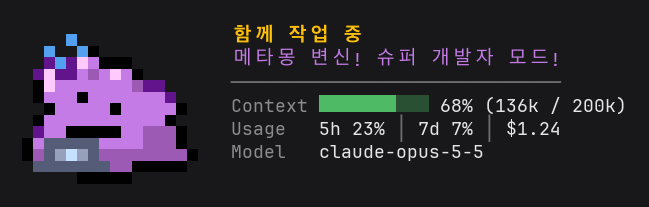
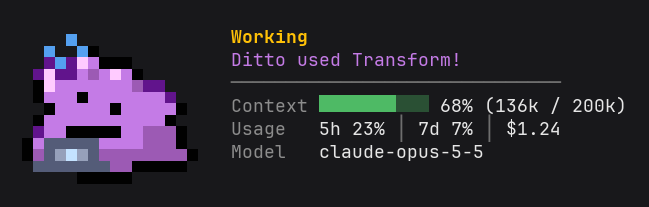
docs: README.md

Changed region(s): [[0.339, 0.1159, 0.8629, 0.3188]]

diff --git a/README.ko.md b/README.ko.md
@@ -4,23 +4,24 @@
 
 메타몽이 프롬프트 위에서 작업 상태를 표정으로 알려 주는 Claude Code Mods입니다. 터미널(CLI)과 Claude Desktop의 Code 탭에서 모두 동작합니다.
 
-![터미널에서 본 메타몽 띠](docs/images/screenshot.png)
+![터미널에서 본 메타몽](docs/images/screenshot.ko.png)
 
 ## 설치
 
-터미널에서 Claude Code를 실행한 뒤 프롬프트에 입력합니다.
+**Claude Code**
 
 ```text
 /plugin install ditto --marketplace 4anghyeon/claude-with-ditto
 ```
 
-셸에서 바로 설치할 수도 있습니다.
+**Shell**
 
 ```sh
 claude plugin install ditto --marketplace 4anghyeon/claude-with-ditto
 ```
 
-Desktop 앱에서는 `/plugin`이 동작하지 않습니다. 프롬프트 입력창 옆의 + 버튼을 누르고 Plugins에서 Add marketplace로 `4anghyeon/claude-with-ditto`를 추가한 뒤 Add plugin을 누르세요.
+**Desktop App**
+- 입력창 옆 + 버튼 → Plugins → Add marketplace에 `4anghyeon/claude-with-ditto` 추가 → Add plugin
 
 ## 업데이트
 
@@ -35,18 +36,17 @@ claude plugin update ditto@claude-with-ditto
 
 ## 제거
 
-셸에서 모드를 지웁니다.
+**Mods**
 
 ```sh
 claude plugin uninstall ditto@claude-with-ditto
 ```
 
-마켓플레이스 등록까지 지우려면 이어서 실행합니다.
+**Marketplace**
 
 ```sh
 claude plugin marketplace remove claude-with-ditto
 ```
-
 
 ## 기능
 
@@ -55,19 +55,18 @@ claude plugin marketplace remove claude-with-ditto
 
   | 상태 | 모습 | 언제 | 움직임 |
   |---|---|---|---|
-  | 대기 중 | ![대기 중](docs/images/idle.gif) | 세션을 시작했을 때, 작업 완료 10초 뒤 | 눈을 깜박이다 가끔 두리번거리거나 하품하고, 1분이 지나면 잠듦 |
+  | 대기 중 | ![대기 중](docs/images/idle.gif) | 세션을 시작했을 때, 작업 완료 10초 뒤 | 눈을 깜박이다 가끔 두리번거리거나 하품하고, 1분이 지나면 돌로 변해 잠듦 |
   | 생각 중 | ![생각 중](docs/images/thinking.gif) | 프롬프트를 보냈을 때, 파일 읽기, 테스트 실행 | 통통 튀고 물음표가 뜸 |
   | 함께 작업 중 | ![함께 작업 중](docs/images/working.gif) | 파일 수정, 그 밖의 명령 실행 | 노트북 앞에서 타이핑 |
   | 오류 발견 | ![오류 발견](docs/images/error.gif) | 답변에 오류나 실패가 있을 때 | 물방울이 맺힘 |
   | 작업 완료 | ![작업 완료](docs/images/done.gif) | Claude가 답을 마쳤을 때 | 별이 반짝임 |
 
-- 메타몽 옆에는 지금 상태와 한마디가 뜹니다. 한마디는 상태별 10개 중에서 무작위로 나오고 5초마다 바뀝니다.
+- 메타몽 옆에는 지금 상태와 한마디가 뜹니다.
 - 컨텍스트 사용량을 막대와 퍼센트로 보여 줍니다.
 - 사용량 한도와 세션 비용을 보여 줍니다.
 - 지금 쓰는 모델을 보여 줍니다.
 - `/ditto <질문>`으로 메타몽에게 물어볼 수 있습니다. 질문은 지금 세션으로 바로 가고, Claude가 대화 맥락을 그대로 이어서 메타몽 말투로 답합니다.
 - `/ditto mood <idle|thinking|working|error|done>`로 표정을 직접 바꿔 보고, `/ditto demo`로 다섯 표정과 도구별 소품 네 가지를 차례로 봅니다.
-- 한국어와 영어로 말합니다. 영어에서는 포켓몬 게임 대사처럼 "Ditto used Transform!" 같은 말을 합니다.
 
 ## 움직임
 
@@ -75,7 +74,11 @@ claude plugin marketplace remove claude-with-ditto
 
 ![대기 중에서 생각 중으로 바뀌는 모습](docs/images/transition.gif)
 
-대기 중에는 가끔 짧은 동작을 하고, 오래 두면 잠듭니다.
+대기 중에는 가끔 짧은 동작을 하고, 오래 두면 돌로 변신해 잠듭니다.
+
+> 어떤 것이든 변신할 수 있다. 잘 때는 돌로 변신해서 공격받지 않도록 하고 있다.
+>
+> — 포켓몬 도감 (골드/하트골드)
 
 | 두리번 | 흔들기 | 늘리기 | 하품 | 잠들기 |
 |---|---|---|---|---|
@@ -95,14 +98,12 @@ claude plugin marketplace remove claude-with-ditto
 
 ## 알아 둘 점
 
-메타몽의 픽셀은 `hooks/sprites.mjs`에 들어 있고, `hooks/draw.mjs`가 화면에 그릴 때마다 이 픽셀로 프레임을 조립합니다. 외부 이미지나 네트워크 요청은 쓰지 않습니다.
-
 터미널에서는 줄 간격을 1.0으로 맞추고 블록 문자가 들어 있는 고정폭 글꼴(JetBrains Mono 등)을 쓰면 메타몽이 끊기지 않고 깔끔하게 보입니다.
 
 ## 요구 사항
 
 - 모드를 지원하는 Claude Code 2.1.287 이상
-- 대화형 CLI나 Claude Desktop의 Code 탭 (그리는 방식은 화면마다 조금 다릅니다)
+- 대화형 CLI나 Claude Desktop의 Code 탭
 
 ## 검사와 실행
 
@@ -114,36 +115,6 @@ claude plugin test ./claude-with-ditto
 claude --plugin-dir ./claude-with-ditto
 ```
 
-세션 안에서 이렇게 써 봅니다.
-
-```text
-/ditto demo
-/ditto 이 컴포넌트의 상태 관리 구조를 같이 검토해 줘
-```
-
-## 폴더 구성
-
-```text
-claude-with-ditto/
-├── .claude-plugin/
-│   ├── marketplace.json
-│   └── plugin.json
-├── docs/
-│   └── images/            README의 스크린샷과 상태별 GIF
-├── hooks/
-│   ├── hooks.json
-│   ├── ditto.mjs
-│   ├── draw.mjs           픽셀로 프레임을 조립
-│   ├── locales.mjs        한국어와 영어 문구
-│   └── sprites.mjs
-├── tests/
-│   └── *.test.ts
-├── types/
-│   └── index.d.ts
-├── README.md
-└── README.ko.md
-```
-
 ## 보안
 
 이 모드는 세션 이벤트를 보고 메타몽을 그리는 일 말고는 아래 세 가지만 합니다.
@@ -152,4 +123,4 @@ claude-with-ditto/
 - 메타몽에게 온 질문에 메타몽 말투로 답하도록 시스템 프롬프트에 짧은 섹션을 붙입니다.
 - `/ditto lang`을 입력하면 이 모드의 `language` 설정을 저장합니다.
 
-언어를 정하려고 Claude Code 설정의 `language` 값과 `LANG` 환경 변수를 읽습니다. 사용자가 입력한 프롬프트는 건드리지 않고, 도구 실행을 막거나 대신 승인하지도 않습니다. 그 밖의 파일은 읽거나 쓰지 않고 네트워크 요청도 보내지 않습니다.
+사용자가 입력한 프롬프트는 건드리지 않고, 도구 실행을 막거나 대신 승인하지도 않습니다. 파일을 읽거나 쓰지 않고 네트워크 요청도 보내지 않습니다.

diff --git a/README.md b/README.md
@@ -2,25 +2,26 @@
 
 <p align="center"><b>English</b> | <a href="README.ko.md">한국어</a></p>
 
-A Claude Code mod in which Ditto sits above the prompt and shows how the work is going with its face. It runs in the terminal (CLI) and in the Code tab of Claude Desktop.
+A Claude Code mod in which Ditto sits above the prompt and shows how the work is going. It runs in the terminal (CLI) and in the Code tab of Claude Desktop.
 
-![Ditto's band in the terminal](docs/images/screenshot.png)
+![Ditto's in the terminal](docs/images/screenshot.png)
 
 ## Install
 
-Start Claude Code in a terminal and type at the prompt:
+**Claude Code**
 
 ```text
 /plugin install ditto --marketplace 4anghyeon/claude-with-ditto
 ```
 
-Or install it straight from the shell:
+**Shell**
 
 ```sh
 claude plugin install ditto --marketplace 4anghyeon/claude-with-ditto
 ```
 
-`/plugin` does not work in the Desktop app. Press the + button next to the prompt box, add `4anghyeon/claude-with-ditto` under Plugins with Add marketplace, then press Add plugin.
+**Desktop App**
+- + button next to the prompt box → Plugins → add `4anghyeon/claude-with-ditto` with Add marketplace → Add plugin
 
 ## Update
 
@@ -35,13 +36,13 @@ A session that is already running picks up the new version after `/reload-plugin
 
 ## Uninstall
 
-Remove the mod from the shell:
+**Mod**
 
 ```sh
 claude plugin uninstall ditto@claude-with-ditto
 ```
 
-To remove the marketplace as well:
+**Marketplace**
 
 ```sh
 claude plugin marketplace remove claude-with-ditto
@@ -54,19 +55,18 @@ claude plugin marketplace remove claude-with-ditto
 
   | State | Looks | When | Motion |
   |---|---|---|---|
-  | Idle | ![Idle](docs/images/idle.gif) | The session starts, 10 seconds after Done | Blinks, now and then looks around or yawns, and falls asleep after a minute |
+  | Idle | ![Idle](docs/images/idle.gif) | The session starts, 10 seconds after Done | Blinks, now and then looks around or yawns, and turns to stone to sleep after a minute |
   | Thinking | ![Thinking](docs/images/thinking.gif) | A prompt is sent, files are read, tests run | Hops, with a question mark |
   | Working | ![Working](docs/images/working.gif) | Files are edited, other commands run | Types on a laptop |
   | Error | ![Error](docs/images/error.gif) | The answer mentions an error or a failure | Breaks into a sweat |
   | Done | ![Done](docs/images/done.gif) | Claude finishes its answer | Sparkles |
 
-- Next to Ditto are the state and a line from Ditto, picked at random from ten per state and changed every 5 seconds.
+- Next to Ditto are the state and a line from Ditto.
 - Context usage is shown as a bar and a percentage.
 - Rate limits and the session's cost are shown too.
 - So is the model in use.
 - `/ditto <question>` asks Ditto. The question goes straight to this session, and Claude answers in Ditto's voice with the conversation's context.
 - `/ditto mood <idle|thinking|working|error|done>` sets a face by hand, and `/ditto demo` shows all five in turn, then the four tool props.
-- Ditto speaks English and Korean. In English it talks like the Pokémon games: "Ditto used Transform!"
 
 ## Motion
 
@@ -74,7 +74,11 @@ When its mood changes, Ditto melts down and wells back up.
 
 ![Ditto changing from idle to thinking](docs/images/transition.gif)
 
-While idle it does a short action now and then, and falls asleep if left alone.
+While idle it does a short action now and then, and turns to stone to sleep if left alone.
+
+> It can transform into anything. When it sleeps, it changes into a stone to avoid being attacked.
+>
+> — Pokédex (Gold/HeartGold)
 
 | Look around | Wiggle | Stretch | Yawn | Sleep |
 |---|---|---|---|---|
@@ -94,14 +98,12 @@ The default, `auto`, follows Claude Code's own `language` setting: Korean when i
 
 ## Good to know
 
-Ditto's pixels live in `hooks/sprites.mjs`, and `hooks/draw.mjs` puts each frame together from them as it draws. The mod loads no outside images and makes no network requests.
-
 In the terminal, Ditto looks cleanest with a line height of 1.0 and a monospace font that has block characters (JetBrains Mono and the like).
 
 ## Requirements
 
 - Claude Code 2.1.287 or later, with mod support
-- The interactive CLI or the Code tab of Claude Desktop (each draws Ditto a little differently)
+- The interactive CLI or the Code tab of Claude Desktop
 
 ## Check and run
 
@@ -113,36 +115,6 @@ claude plugin test ./claude-with-ditto
 claude --plugin-dir ./claude-with-ditto
 ```
 
-Then try these in the session:
-
-```text
-/ditto demo
-/ditto review this component's state management with me
-```
-
-## Layout
-
-```text
-claude-with-ditto/
-├── .claude-plugin/
-│   ├── marketplace.json
-│   └── plugin.json
-├── docs/
-│   └── images/            The README's screenshot and the GIF for each state
-├── hooks/
-│   ├── hooks.json
-│   ├── ditto.mjs
-│   ├── draw.mjs           Puts each frame together from the pixels
-│   ├── locales.mjs        Ditto's lines in Korean and English
-│   └── sprites.mjs
-├── tests/
-│   └── *.test.ts
-├── types/
-│   └── index.d.ts
-├── README.md
-└── README.ko.md
-```
-
 ## Security
 
 Besides watching session events and drawing Ditto, the mod does only these three things:
@@ -151,4 +123,4 @@ Besides watching session events and drawing Ditto, the mod does only these three
 - It adds a short section to the system prompt so that questions for Ditto are answered in Ditto's voice.
 - `/ditto lang` saves the mod's own `language` setting.
 
-To pick a language it reads Claude Code's `language` setting and the `LANG` environment variable. It leaves the prompts you type alone and never blocks or approves tool runs. It reads and writes no other files and makes no network requests.
+It leaves the prompts you type alone and never blocks or approves tool runs. It reads and writes no files and makes no network requests.
